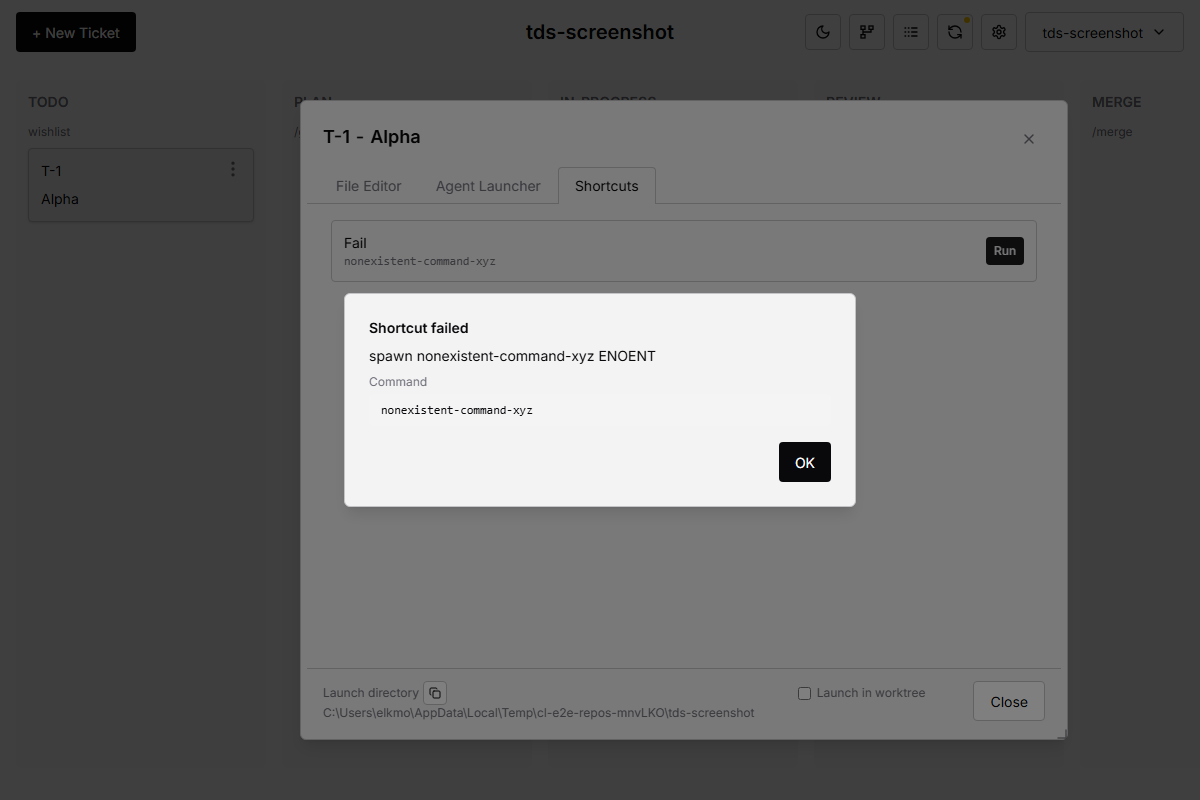
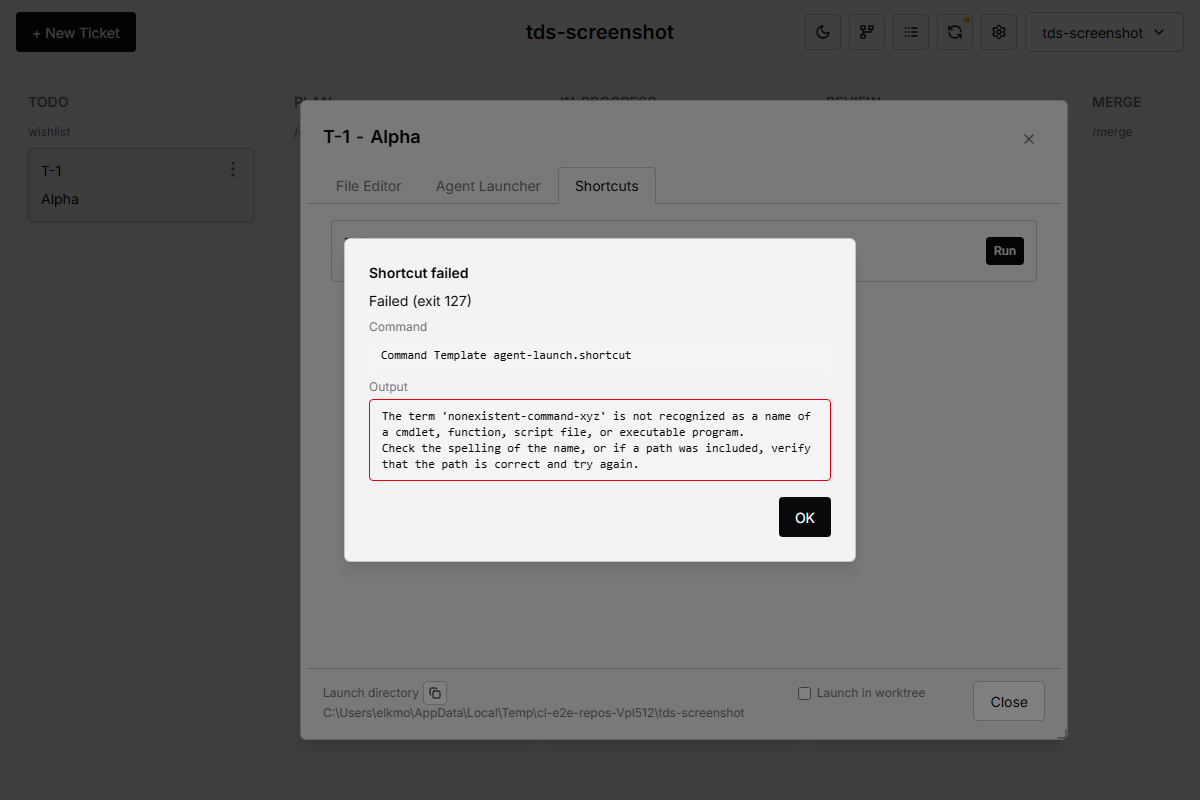
sync: local changes

Changed region(s): [[0.2775, 0.2812, 0.74, 0.5938], [0.2775, 0.5, 0.74, 0.7188], [0.5242, 0.875, 0.6167, 0.9062]]

diff --git a/st-0052-comprehensive-code-review/to-do.md b/st-0052-comprehensive-code-review/to-do.md
@@ -1,0 +1,5 @@
+I need to review all code manually and remove all cases of slop I can find.
+
+I am aiming at production ready quality system.
+
+The output of this ticket is a series of commits on master AND tickets for bigger refactorings.